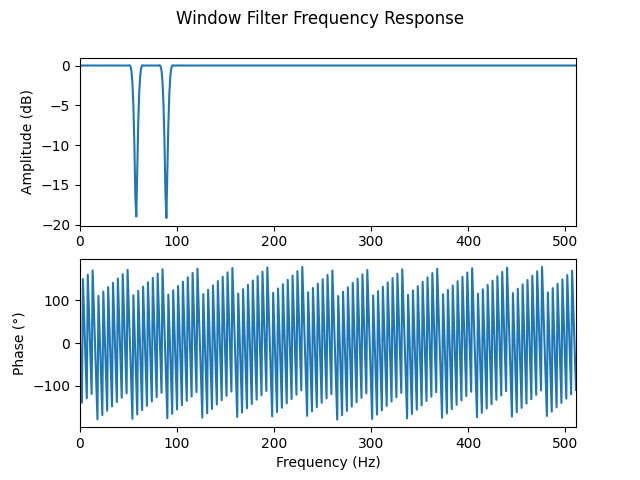
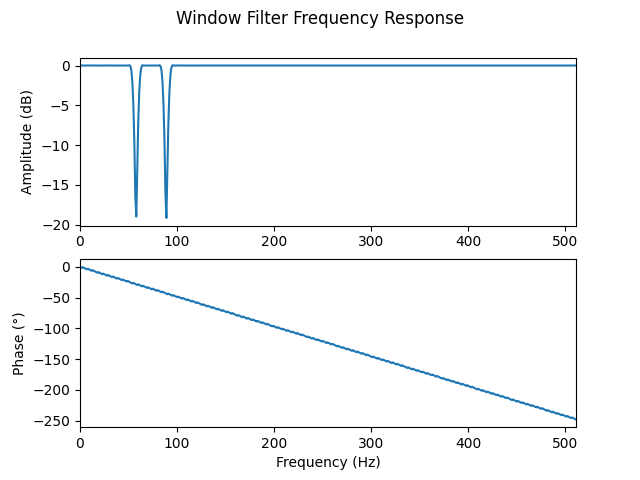
change to unwrap

Changed region(s): [[0.0625, 0.5625, 0.9062, 0.9062], [0.0938, 0.5312, 0.125, 0.5625]]

diff --git a/signalPlots.py b/signalPlots.py
@@ -150,7 +150,7 @@ def plotWindowFilterResponse(filter_array, f_samp):
      window_ax1.set_xlim(freq[0], freq[-1])  # Limit the x axis from 0 to Nyquist frequency
 
      # Plot phase response
-     window_ax2.plot(freq, np.angle(response, deg=True))  # Plot phase in dB vs degrees
+     window_ax2.plot(freq, np.unwrap(np.angle(response, deg=True)))  # Plot phase in dB vs degrees
      window_ax2.set_ylabel("Phase (°)")
      window_ax2.set_xlim(freq[0], freq[-1])  # Limit the x axis from 0 to Nyquist frequency
 
